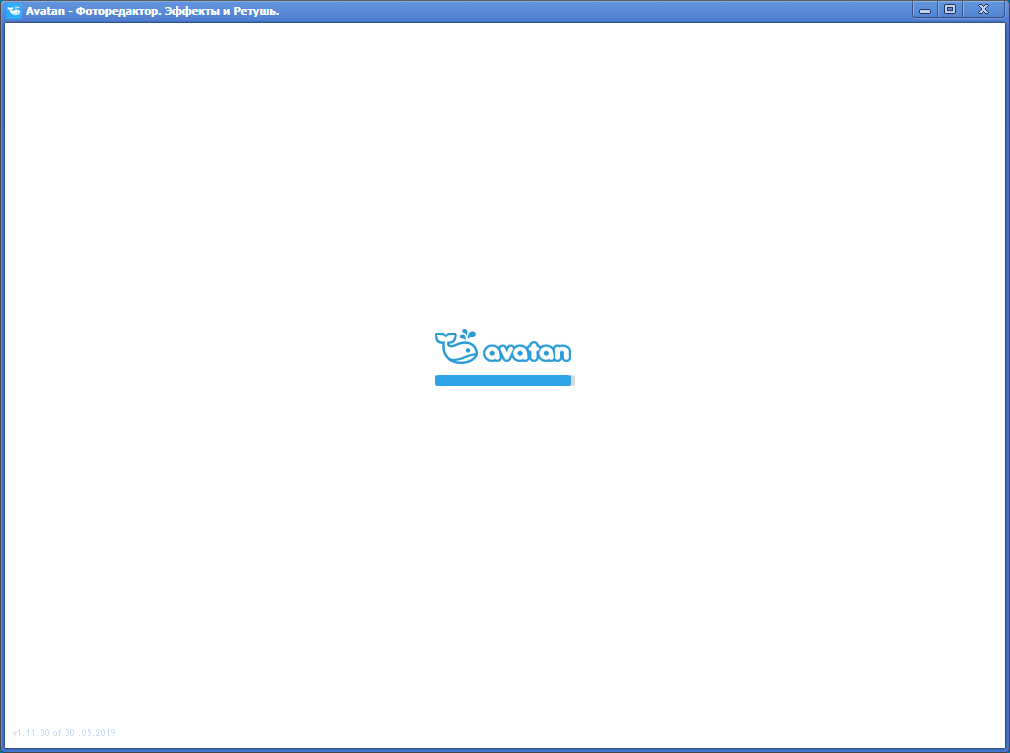
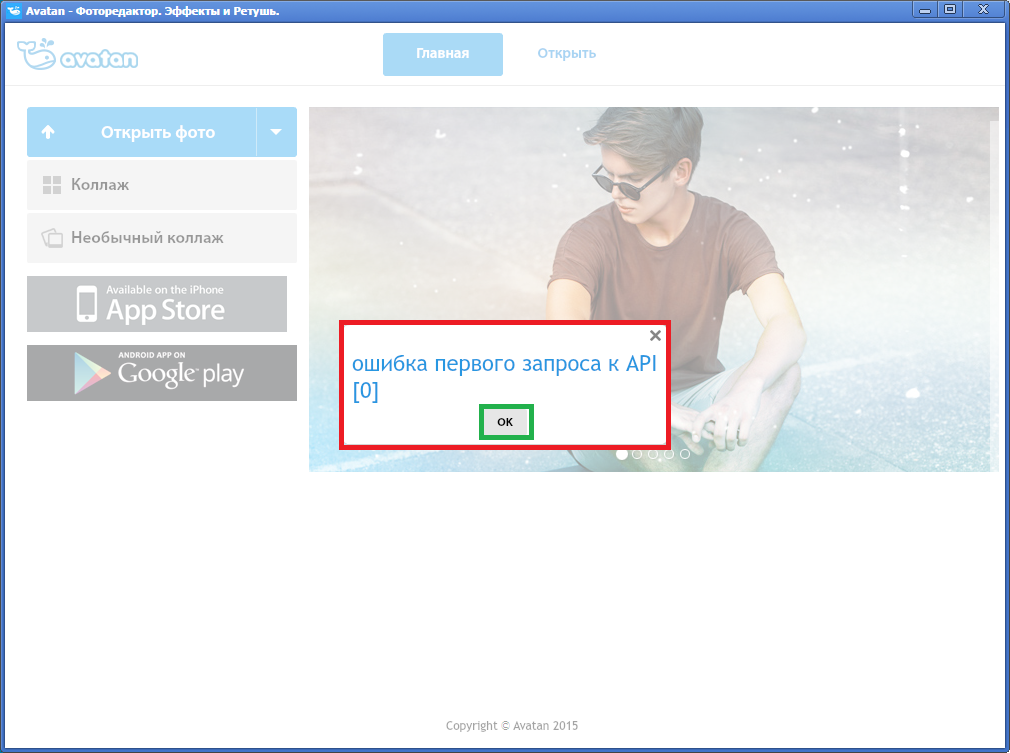
1

diff --git a/index.html b/index.html
@@ -59,8 +59,8 @@
 		<meta name="apple-mobile-web-app-capable" content="yes">
 		<meta name="mobile-web-app-capable" content="yes">
 
-		<link rel="stylesheet" href="css/__reset.css">
-		<link rel="stylesheet" href="css/__index.css">
+		<link rel="stylesheet" href="css/reset.css">
+		<link rel="stylesheet" href="css/index.css">
 
 		<!-- Yandex.Metrika counter -->
 		<script type="text/javascript">
@@ -129,7 +129,7 @@
 
 
 						<p><strong>6.</strong> После загрузки программы может появится такое окошко с ошибкой. Просто закройте его.</p>
-						<img src="css/resources/images/7.png">
+						<img src="css/resources/images/6.png">
 
 						<p class="last"><strong>7.</strong> Пользуйтесь Аватаном на компьютере :)</p>
 					</article>
